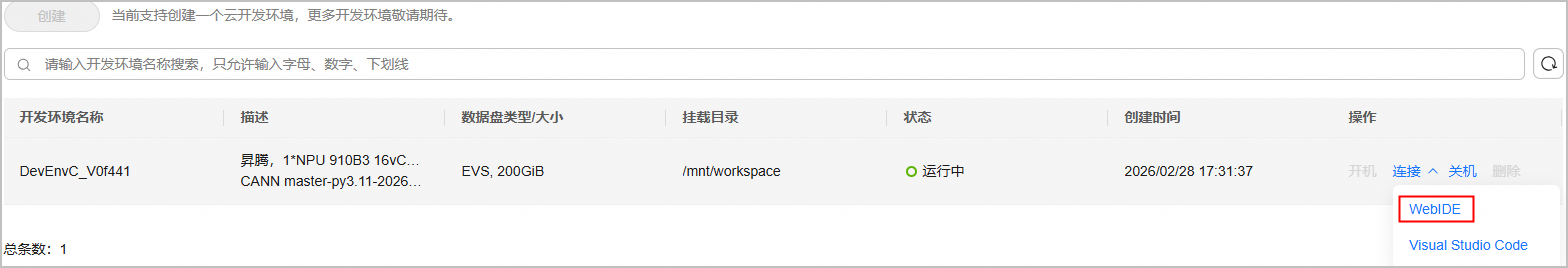
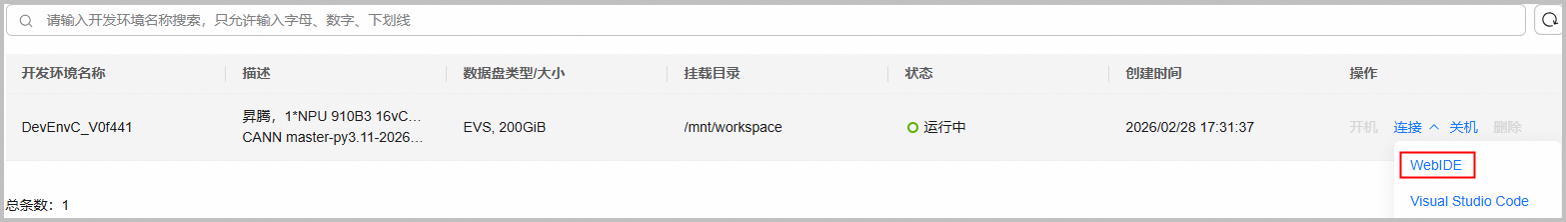
[Docs] modify public profile of QUICKSTART
# message auto-generated for no-merge-commit merge:
!4096 merge profile_0422 into master

[Docs] modify public profile of QUICKSTART

Created-by: wangzitao_leo
Commit-by: ZitaoWang
Merged-by: cann-robot
Description: ## 描述

<!--在这里详细描述你的改动，包括改动的原因和所采取的方法。-->
1. 修改QUICKSTART.md/quick_install.md中关于WebIDE的错误路径；
2. 补充AddExample编译中--soc支持参数的说明；
3. 更新AddExample编译成功后返回的提示信息。

## 关联的Issue
<!-- 如果这个PR是为了解决特定的Issue，请在这里提供Issue链接。例如：关联Issue #000-->

关联Issue [#2239](https://gitcode.com/cann/ops-nn/issues/2239) 、 [#2202](https://gitcode.com/cann/ops-nn/issues/2202) 

## 测试
<!--描述进行了哪些测试来验证你的改动。-->
执行QUICKSTART.md中WebIDE、样例算子编译，返回结果和文档一致。

## 文档更新
<!--如果这个PR包含文档的更新，请在这里指出。例如：更新了README.md文件。-->
1. docs/QUICKSTART.md
2. docs/zh/install/quick_install.md
## 类型标签
<!--  [x] 表示选中 -->
- [ ] Bug修复
- [ ] 新特性
- [ ] 性能优化
- [x] 文档更新
- [ ] 其他，请描述：

See merge request: cann/ops-nn!4096

diff --git a/docs/QUICKSTART.md b/docs/QUICKSTART.md
@@ -21,28 +21,25 @@
 本阶段目的是**快速体验项目标准流程**，验证环境能否成功进行算子源码编译、打包、安装和运行。
 
 ### 1. 进入项目源码
-
-1. 检查源码版本。
-
-    根据[release仓库](https://gitcode.com/cann/release-management)CANN版本配套关系检查源码版本是否配套，若不配套请参考下述命令重新下载，\$\{tag\_version\}替换为目标分支标签。
-
-    > 说明：对于WebIDE环境，**已默认提供最新商发版CANN配套的项目源码**。
     
-    ```bash
-    git clone -b ${tag_version} https://gitcode.com/cann/ops-nn.git
-    ```
-
-    若出现提示信息`fatal: destination path 'ops-nn' already exists and is not an empty directory.`，说明项目源码已存在。
+- WebIDE环境：
+   
+   默认提供最新商发版CANN包配套的项目源码，进入源码目录，\$\{gitCode\_id\}替换为开发者个人gitCode账号。
+   
+   ```
+   cd /mnt/workspace/gitCode/${gitCode_id}/ops-nn
+   ```
+- 非WebIDE环境：
+  
+  根据[release仓库](https://gitcode.com/cann/release-management)源码与CANN版本配套关系，执行如下命令下载源码，\$\{tag\_version\}替换为目标分支标签，例如9.0.0。
     
-2. 进入源码目录。
-    - Docker或手动安装场景下源码位于：
-      ```bash
-      cd ops-nn
-      ```
-    - WebIDE场景下源码位于：
-      ```bash
-      cd /mnt/workspace/ops-nn
-      ```
+  ```bash
+  git clone -b ${tag_version} https://gitcode.com/cann/ops-nn.git && cd ops-nn
+  ```
+
+> 说明：如需切换源码分支版本，请参考如下指导。
+> 1. 在源码目录执行`git branch`，查询当前源码版本。
+> 2. 在源码目录执行`git checkout ${tag_version}`，切换到目标分支源码，注意满足源码与CANN版本配套关系。若源码已存在，执行`git pull`拉取最新源码。
 
 ### 2. 编译AddExample算子
 
@@ -51,13 +48,22 @@
 以AddExample算子为例，编译命令如下：
 
 ```bash
-bash build.sh --pkg --soc=ascend910b --ops=add_example -j16
+bash build.sh --pkg --soc=${soc_version} --ops=add_example -j16
 ```
+\$\{soc\_version\}设置方法如下：
+
+访问[CANN下载中心](https://www.hiascend.com/cann/download)，根据页面提示复制硬件查询命令，在当前环境中执行，返回芯片ID信息，再回填到官网按Enter键获取产品名，产品名对应的${soc_version}取值如下，请按实际场景传参。
+
+- Atlas A2 训练系列产品/Atlas A2 推理系列产品：取值为ascend910b
+- Atlas A3 训练系列产品/Atlas A3 推理系列产品：取值为ascend910_93
+- Atlas 350 加速卡：取值为ascend950
+
+<img src="./zh/figures/socInfo.png" alt="芯片版本" width="800px" height="160px">
 
 若提示如下信息，说明编译成功。
 
 ```bash
-Self-extractable archive "cann-ops-nn-custom-linux.${arch}.run" successfully created.
+Self-extractable archive "cann-ops-nn-custom_linux-${arch}.run" successfully created.
 ```
 
 编译成功后，run包存放于项目根目录的build_out目录下。
@@ -132,11 +138,11 @@ __aicore__ inline void AddExample<T>::Compute(int32_t progress)
 1. **重新编译**：
 
     先回到项目根目录，编译命令如下：
-    
+
     ```bash
     bash build.sh --pkg --soc=ascend910b --ops=add_example -j16
     ```
-    
+
 2. **重新安装**：
 
     ```bash
@@ -176,7 +182,7 @@ __aicore__ inline void AddExample<T>::Compute(int32_t progress)
 * **printf**
 
   该接口支持打印Scalar类型数据，如整数、字符型、布尔型等，详细介绍请参见[《Ascend C API》](https://hiascend.com/document/redirect/CannCommunityAscendCApi)中“算子调测API > printf”。
-  
+
   ```c++
   blockLength_ = (tilingData->totalLength + AscendC::GetBlockNum() - 1) / AscendC::GetBlockNum();
   tileNum_ = tilingData->tileNum;
@@ -185,11 +191,11 @@ __aicore__ inline void AddExample<T>::Compute(int32_t progress)
   // 打印当前核计算Block长度
   AscendC::PRINTF("Tiling blockLength is %llu\n", blockLength_);
   ```
-  
+
 * **DumpTensor**
 
   该接口支持Dump指定Tensor的内容，同时支持打印自定义附加信息，比如当前行号等，详细介绍请参见[《Ascend C API》](https://hiascend.com/document/redirect/CannCommunityAscendCApi)中“算子调测API > DumpTensor”。
-  
+
   ```c++
   AscendC::LocalTensor<T> zLocal = outputQueueZ.DeQue<T>();
   // 打印zLocal Tensor信息
@@ -201,7 +207,7 @@ __aicore__ inline void AddExample<T>::Compute(int32_t progress)
 当算子功能验证正确后，可通过`msprof`工具采集算子性能数据。
 
 - **生成可执行文件**
-  
+
     调用AddExample算子的example样例，生成可执行文件（test_aclnn_add_example），该文件位于项目`ops-nn/build`目录。
 
     ```bash
@@ -231,7 +237,7 @@ __aicore__ inline void AddExample<T>::Compute(int32_t progress)
 ```c++
 int main() {
     // ... 初始化代码 ...
-    
+
     // === ① 修改selfX的输入 ===
     // 修改前：shape = {32, 4, 4, 4}, 数值全为1
     // 修改后：将输入shape改为 {8, 8, 8, 8}，并填充不同的测试数据
@@ -242,7 +248,7 @@ int main() {
         selfXHostData[i] = static_cast<float>(i % 10); // 填充0-9的循环值
     }
     // === ② 参考selfX，同理修改selfY、selfZ的输入 ===
-    
+
     // ... 后续执行代码 ...
 }
 ```

diff --git a/docs/zh/install/quick_install.md b/docs/zh/install/quick_install.md
@@ -19,15 +19,17 @@
 
 ### 方式1：WebIDE环境
 
-对于无昇腾设备的开发者，可直接使用WebIDE开发平台，即“**算子一站式开发平台**”，该平台为您提供在线可直接运行的昇腾环境，环境中已安装必备的驱动固件、软件包和依赖，无需手动安装。
+对于无昇腾设备的开发者，可直接使用WebIDE开发平台，即“**一站式开发平台**”，该平台为您提供在线可直接运行的昇腾环境，环境中已安装必备的驱动固件、软件包和依赖，无需手动安装。
 
-> **说明**：环境默认安装最新商发版CANN包，源码下载时注意与软件配套。更多关于开发平台的介绍请参考[LINK](https://gitcode.com/org/cann/discussions/54)。
+> **说明**：环境默认安装最新商发版CANN包，源码下载时注意与软件配套。更多关于开发平台的介绍请参考[WebIDE指导](https://gitcode.com/org/cann/discussions/54)。
 
 1. 进入开源项目，单击“`云开发`”按钮，使用已认证过的华为云账号登录。若未注册或认证，请根据页面提示进行注册和认证。
 
    <img src="../figures/cloudIDE.png" alt="云平台"  width="750px" height="90px">
 
-2. 根据页面提示创建并启动云开发环境，单击“`连接 > WebIDE`”进入算子一站式开发平台，开源项目的源码资源默认在`/mnt/workspace`目录下。
+2. 根据页面提示创建NPU环境并配置规格，启动云开发环境后，单击“`连接 > WebIDE`”进入一站式开发平台。
+  
+   当前开源项目资源默认在`/mnt/workspace/gitCode/${gitCode_id}`目录下，\$\{gitCode\_id\}表示开发者个人gitCode账号。
 
    <img src="../figures/webIDE.png" alt="云平台"  width="1000px" height="150px">
 